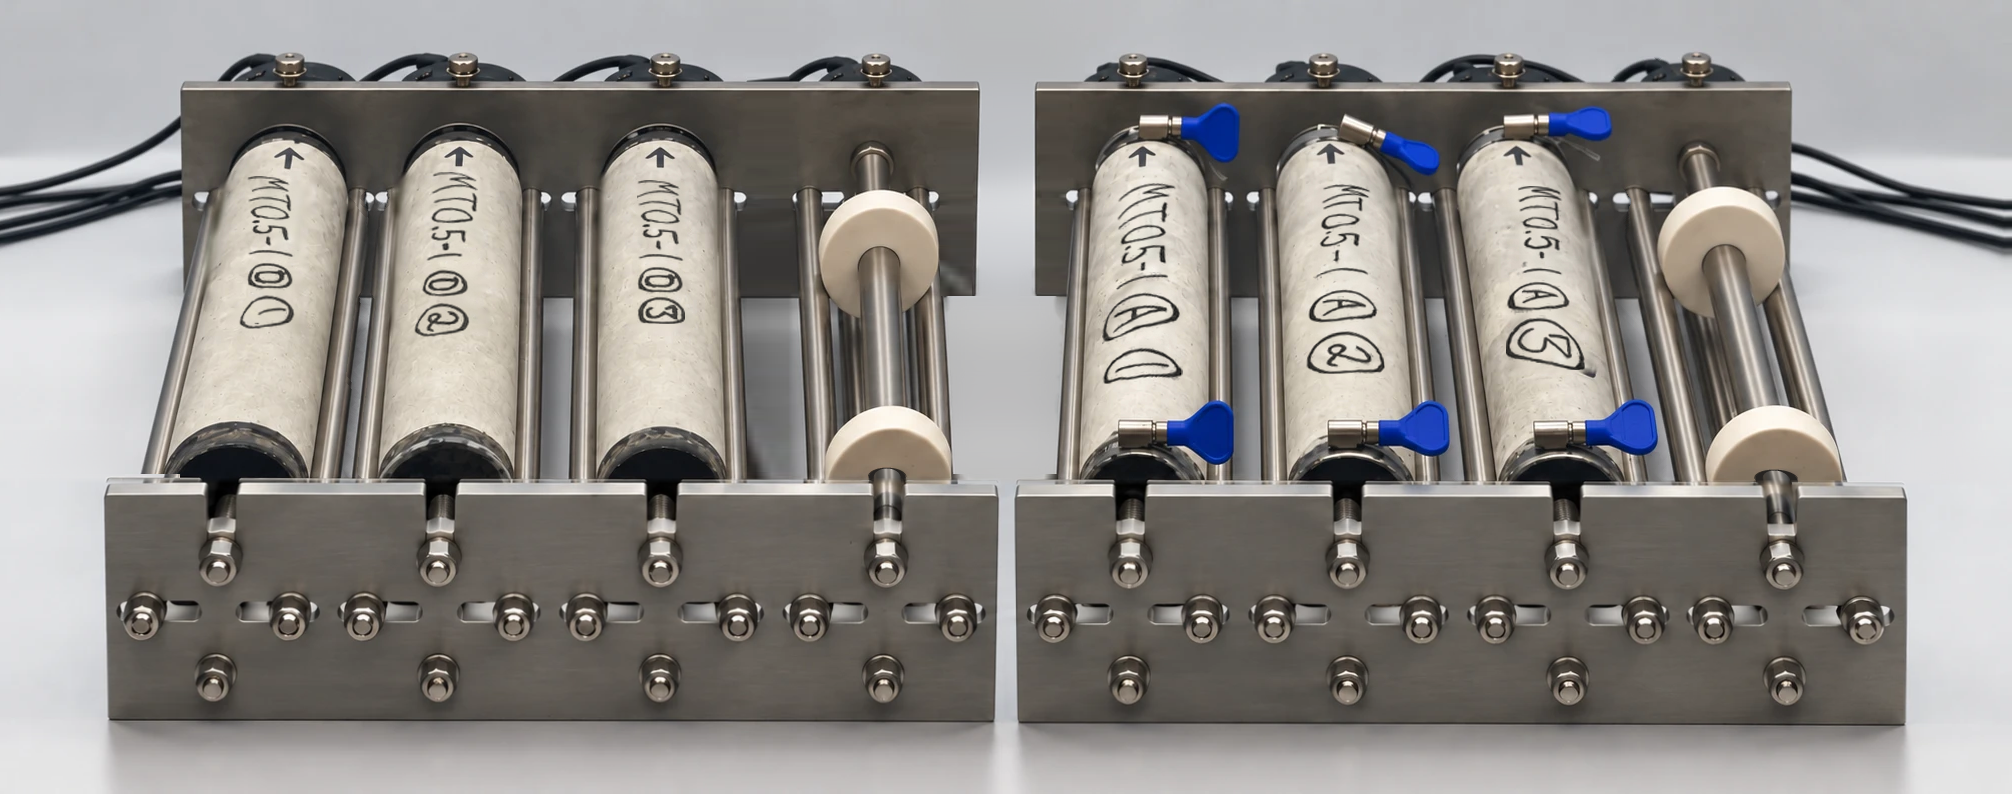
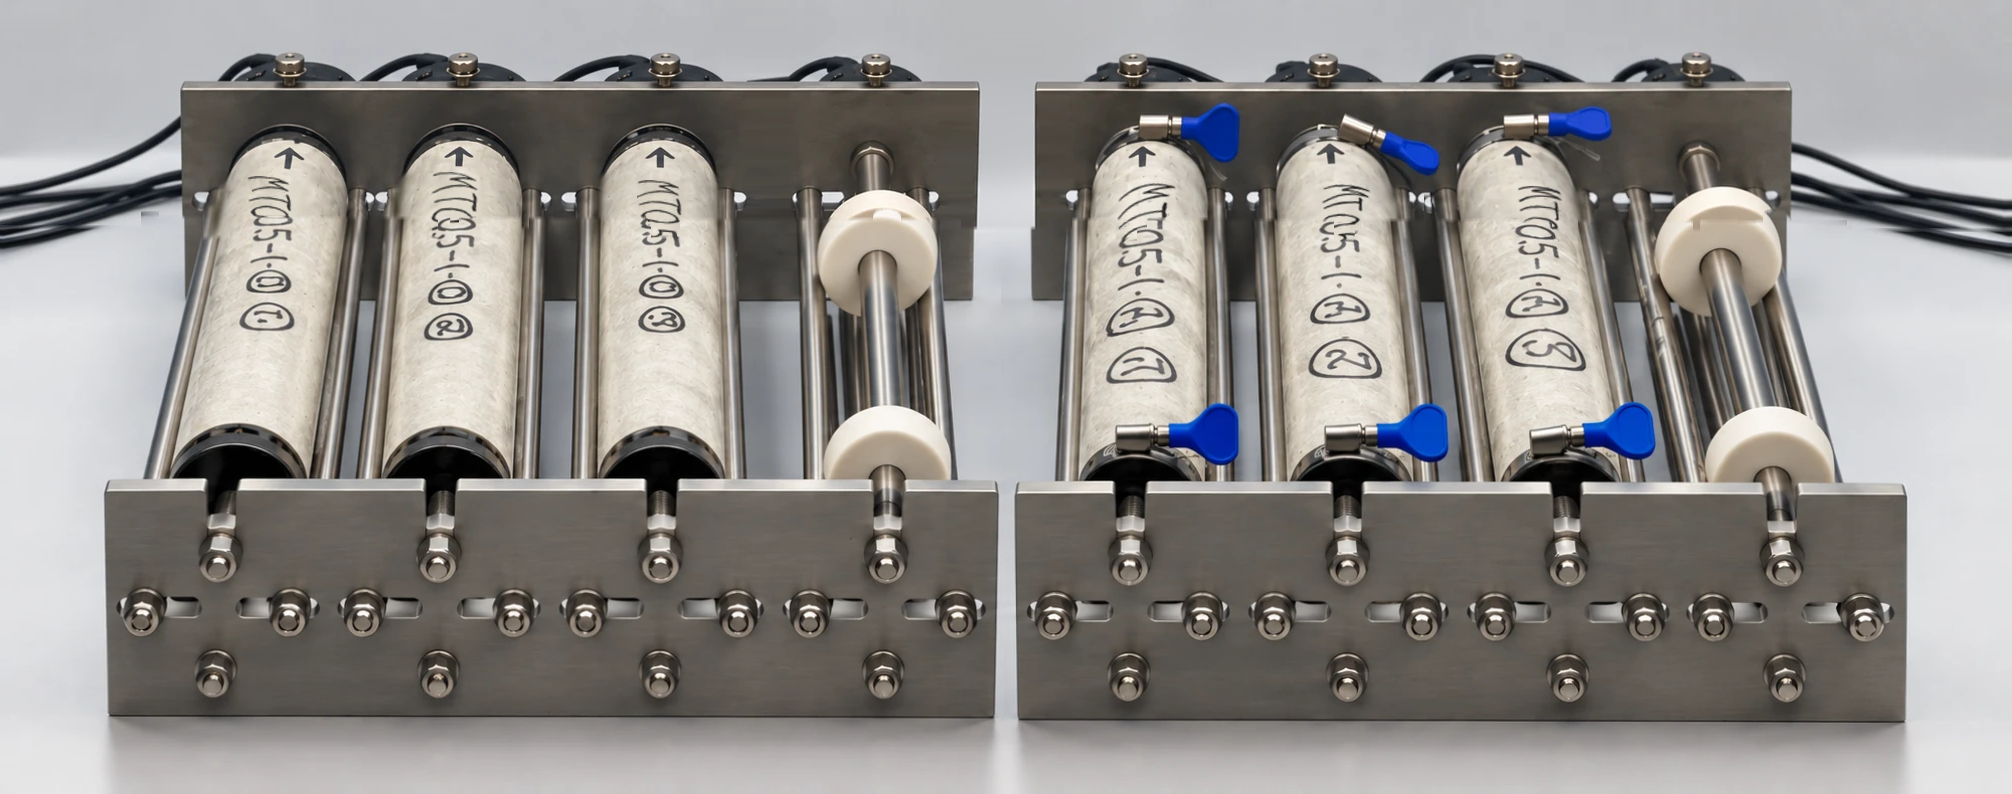
Make the bottom-section stitch seamless
Align the second rendering's plate-top edge to ours (it sat 3-4 px lower, so
the bevel showed twice) and blend along a per-column seam that follows the
plate edge, ending just above it, instead of a fixed horizontal line.

Claude-Session: https://claude.ai/code/session_017fwkAQjt5JYwLzDNEhCw96

diff --git a/figures/stitch.py b/figures/stitch.py
@@ -25,19 +25,34 @@ def stitch(ours,new):
     new=cv2.copyMakeBorder(new,0,max(H-new.shape[0],0),0,max(Wd-new.shape[1],0),cv2.BORDER_REPLICATE)[:H,:Wd]
     out=ours.astype(np.float32)
     frames=[(100,995,'L'),(1008,1910,'R')]
+    go=ours.astype(np.float32).mean(2)
+    def top_edges(g,xs):
+        """Row of the plate's top edge (dark -> bright step) for each column xs."""
+        sub=g[455:505][:,xs]; d=np.diff(cv2.GaussianBlur(sub,(1,3),0),axis=0)
+        return 455+1+np.argmax(d,axis=0)
     for x0,x1,_ in frames:
         Wm,cc=register(ours,new,x0,x1,490,725)
-        print('frame',x0,x1,'ecc %.3f'%cc,'A',Wm.round(4).tolist())
-        warped=cv2.warpAffine(new,Wm,(Wd,H),flags=cv2.INTER_LINEAR|cv2.WARP_INVERSE_MAP,borderMode=cv2.BORDER_REPLICATE).astype(np.float32)
-        # seam: middle of the plate-top bevel (bright band); feather over a few rows
-        g=ours.astype(np.float32).mean(2)
-        cols=np.arange(x0+20,x1-20)
-        Y=np.arange(H)[:,None]; X=np.arange(Wd)[None,:]
-        # find bevel row (brightest band 470-500) in this frame
-        prof=g[460:505,x0+40:x1-40].mean(1); yb=460+int(np.argmax(prof))
-        wy=np.clip((Y-(yb-SEAM))/6,0,1)
+        warp=lambda M: cv2.warpAffine(new,M,(Wd,H),flags=cv2.INTER_LINEAR|cv2.WARP_INVERSE_MAP,
+                                      borderMode=cv2.BORDER_REPLICATE).astype(np.float32)
+        warped=warp(Wm)
+        # snap vertically so the two plates' top edges coincide (ECC fits the plate face;
+        # the edge itself sits a few px lower in the second rendering)
+        xs=np.arange(x0+30,x1-30,3)
+        eo=top_edges(go,xs); en=top_edges(warped.mean(2),xs)
+        dy=float(np.median(en-eo))
+        M2=Wm.copy(); M2[1,2]+=dy                      # inverse map: sample dy rows lower
+        warped=warp(M2)
+        print('frame',x0,x1,'ecc %.3f'%cc,'edge shift %.1f px'%dy)
+        # per-column seam just above our plate's top edge (smoothed), feathered over 5 rows
+        xa=np.arange(Wd); xs_c=np.clip(xa,x0+30,x1-31)
+        e=top_edges(go,np.arange(x0+30,x1-30)).astype(np.float32)
+        e=np.minimum.accumulate(np.r_[e]) if False else e
+        e=cv2.medianBlur(e.astype(np.uint8)[None,:],15)[0].astype(np.float32)
+        seam=np.interp(xa,np.arange(x0+30,x1-30),e)-3
+        Y=np.arange(H)[:,None]
+        wy=np.clip((Y-(seam[None,:]-5))/5,0,1)
         lo=0 if x0<500 else 1001; hi=1001 if x0<500 else Wd
-        wx=((X>=lo)&(X<hi)).astype(np.float32)
+        wx=((np.arange(Wd)>=lo)&(np.arange(Wd)<hi)).astype(np.float32)[None,:]
         w=(wy*wx)[...,None]
         out=out*(1-w)+warped*w
     return np.clip(out,0,255).astype(np.uint8)
